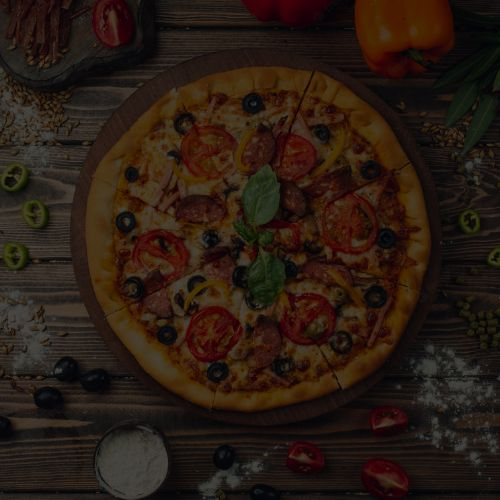
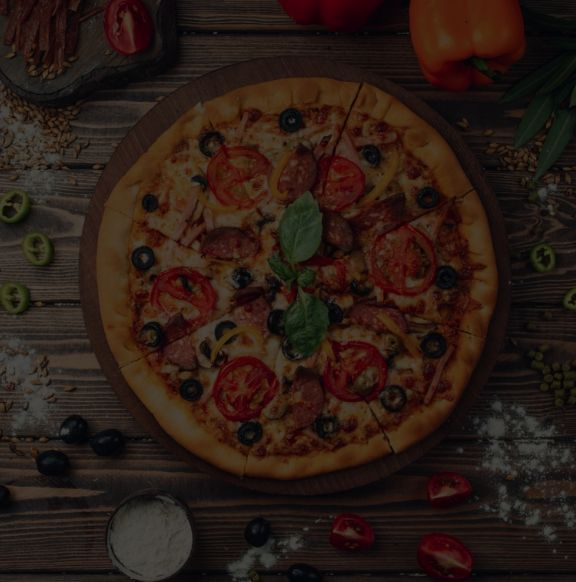
login view e home view

diff --git a/templates/base_login.html b/templates/base_login.html
@@ -10,27 +10,29 @@
     <link href="https://fonts.googleapis.com/css2?family=Kadwa:wght@400;700&display=swap" rel="stylesheet">
     <link rel="stylesheet" href="{% static 'css/fontawesome/css/all.min.css' %}">
     <link rel="shortcut icon" href="{% static 'img/favicon.png' %}">
+    <link rel="stylesheet" href="https://stackpath.bootstrapcdn.com/bootstrap/4.1.3/css/bootstrap.min.css" integrity="sha384-MCw98/SFnGE8fJT3GXwEOngsV7Zt27NXFoaoApmYm81iuXoPkFOJwJ8ERdknLPMO" crossorigin="anonymous">
 </head>
 <body>
-        <div class="auth-banner">
-            <div class="banner-image">
-                <div class="banner-left-content">
+    <div id="content">
+        <div id="teste" class="d-flex flex-row bd-highlight mb-3 justify-content-center">
+            <div id="banner-image">
+                <div id="banner-left-content">
                     {% block banner_left_content %} {% endblock %}
                 </div>
             </div>
-            <div class="banner-right-content">
-                <img src="{% static 'img/logo.png' %}" alt="Logo Pizzaria Fogo na Brasa" width="350px"><br>
-                <div id="content-main">
+            <div id="banner-right-content">
+                <img class="mt-5" src="{% static 'img/logo.png' %}" alt="Logo Pizzaria Fogo na Brasa" width="450px"><br>
+                <div id="content-main" class="text-center mt-5">
                     {% block banner_right_content %} {% endblock %}
                 </div>
             </div>
         </div>
-
-        <footer>
-            <p class="m-t">
-                <small><strong>Copyright</strong> Pizzaria Fogo Brasa &copy; {% now 'Y' %}</small>
-            </p>
-        </footer>
+    </div>
+    <footer>
+        <p class="fixed-bottom d-flex justify-content-center">
+            <small><strong>Copyright</strong> Pizzaria Fogo Brasa &copy; {% now 'Y' %}</small>
+        </p>
+    </footer>
 </body>
 </html>
 
@@ -40,65 +42,65 @@
         font-family: 'Kadwa';
     }
 
-    .auth-banner{
-        display: flex;
-        align-items: center;
-        justify-content: center;
-        margin: 20vh 0;
+    #content{
+        display: block;
+        margin-top: 0em;
+        margin-block-end: 1em;
+        height: 100%;
     }
 
-    .banner-right-content{
+    #teste{
+        top: 50%;
+        left: 50%;
+        transform: translate(-50%, -50%);
+        position: fixed;
+    }
+
+    #banner-right-content{
         background-color: #620000;
         text-align: center;
-        width: 500px;
-        height: 500px;
-        box-shadow: 0px 0px 10px #000000;
+        width: 700px;
+        height: 700px;
     }
 
-    .banner-right-content input{
-        height: 2.5em;
-        width: 22em;
-        margin: 0.625em;
+    #banner-right-content input{
+        height: 3em;
+        width: 30em;
         border: 0.025em solid gray;
         border-radius: 0.25em;
     }
 
-    .banner-right-content button{
+    #banner-right-content button{
         width: 10em;
-        height: 2.5em;
+        height: 3em;
         background-color: #410000;
         color: #FFFFFF;
         border: none;
-        margin: 1em;
         cursor: pointer;
         border-radius: 2px;
         box-shadow: 2px 2px 5px #000000;
         font-weight: 700;
     }
 
-    .banner-right-content img{
-        margin: 2em 0em;
-    }
-
-    .banner-image{
-        width: 500px;
-        height: 500px;
+    #banner-image{
+        width: 700px;
+        height: 700px;
         background-image: url("{% static 'img/pizza_banner.jpg' %}");
+        background-size: cover;
         box-shadow: 0px 0px 10px #000000;
         text-align: center;
-        
     }
 
-    .banner-left-content{
-        padding-top: 180px;
+    #banner-left-content{
+        padding-top: 300px;
     }
 
-    .banner-left-content h1, p{
+    #banner-left-content h1, p{
         color: #FFFFFF;
         margin: 0.350em;
     }
 
-    .banner-left-content button{
+    #banner-left-content button{
         cursor: pointer;
         width: 12em;
         height: 2.5em;
@@ -111,11 +113,4 @@
         font-weight: 700;    
     }
 
-    .password-reset-link{
-        font-size: 14px;
-    }
-
-    footer{
-        text-align: center;
-    }
 </style>

diff --git a/templates/base_home.html b/templates/base_home.html
@@ -1,0 +1,50 @@
+<!DOCTYPE html>
+<html lang="pt-br">
+<head>
+    <meta charset="UTF-8">
+    <meta name="viewport" content="width=device-width, initial-scale=1.0">
+    <title>Pizzaria - Fogo na Brasa</title>
+    <link rel="preconnect" href="https://fonts.googleapis.com">
+    <link rel="preconnect" href="https://fonts.gstatic.com" crossorigin>
+    <link href="https://fonts.googleapis.com/css2?family=Kadwa:wght@400;700&display=swap" rel="stylesheet">
+    <link rel="stylesheet" href="{% static 'css/fontawesome/css/all.min.css' %}">
+    <link rel="shortcut icon" href="{% static 'img/favicon.png' %}">
+    <link rel="stylesheet" href="https://stackpath.bootstrapcdn.com/bootstrap/4.1.3/css/bootstrap.min.css" integrity="sha384-MCw98/SFnGE8fJT3GXwEOngsV7Zt27NXFoaoApmYm81iuXoPkFOJwJ8ERdknLPMO" crossorigin="anonymous">
+</head>
+<body>
+    <header id="navbar">
+        <div class="d-flex justify-content-between">
+            <img src="../static/img/logo_home.png" width="200px" draggable="false">
+        </div>
+        <div class="d-flex flex-row bd-highlight mb-3 border border-bottom-0 border-left-0">
+            <a class="p-2 bd-highlight font-weight-bold border-right">PÁGINA INICIAL</a>
+            <a class="p-2 bd-highlight font-weight-bold border-right">DELIVERY</a>
+            <a class="p-2 bd-highlight font-weight-bold border-right">PEDIDOS</a>
+          </div>
+    </header>
+
+    <main id="home-content" class="d-flex justify-content-center mt-5">
+        <div class="d-flex flex-row justify-content-center bg-light w-50 p3 rounded">
+            <p class="bd-highlight m-2 px-5">COMEÇAR O PEDIDO</p>
+            <button class="bd-highlight m-2 px-5"><i class="fa-sharp fa-solid fa-moped"></i>&nbsp;ENTREGA</button>
+            <p class="bd-highlight m-2 px-5">OU</p>
+            <button class="bd-highlight m-2 px-5"><i class="fa-solid fa-store"></i>&nbsp;RETIRADA</button>
+        </div>    
+    </main>
+</body>
+</html>
+<style>
+    body{
+        background-image: url("../static/img/background_texture.png");
+    }
+
+    #navbar{
+        background-color: #410000;
+        color: #FFFFFF;
+    }
+
+    #navbar a{
+        cursor: pointer;
+    }
+
+</style>

diff --git a/templates/registration/password_reset_form.html b/templates/registration/password_reset_form.html
@@ -8,15 +8,49 @@
 </div>
 {% endblock %} -->
 
-{% block auth_content %}
+{% block banner_left_content %}
+<h1>Seja Bem-Vindo(a)!</h1>
+<p>Informe seus dados para acesso ao sistema</p>  
+<button type="submit" id="btnRegister"><i class="fa-solid fa-square-plus"></i>&nbsp;CADASTRE-SE</button><br>
+{% endblock %}
 
-<p>{% translate 'Forgotten your password? Enter your email address below, and we’ll email instructions for setting a new one.' %}</p>
+{% block banner_right_content %}
+<p class="mb-3">Digite o endereço de e-mail da conta que você não consegue acessar e enviaremos instruções para redefinir sua senha.</p>
 
 <form method="post">{% csrf_token %}
-<fieldset class="">
+<fieldset class="password-reset-email">
         {% crispy form%}
-    <input class="btn btn-primary mb-2 mt-2"  type="submit" value="{% translate 'Reset my password' %}">
+    <input id="btn-email" class="mb-3 mt-4" type="submit" value="Enviar" placeholder="E-mail">
 </fieldset>
 </form>
+
+<style>
+    .password-reset-email{
+        border: none;
+        font-size: 16px;
+        color: white;
+    }
+
+    .password-reset-email label{
+        display: none;
+    }
+
+    #e-mail{
+        background-color: #410000;
+        color: #FFFFFF;
+    }
+
+    #btn-email{
+        width: 10em;
+        height: 3em;
+        background-color: #410000;
+        color: #FFFFFF;
+        border: none !important;
+        cursor: pointer;
+        border-radius: 2px;
+        box-shadow: 2px 2px 5px #000000;
+        font-weight: 700;
+    }
+</style>
 
 {% endblock %}

diff --git a/templates/registration/login.html b/templates/registration/login.html
@@ -3,7 +3,7 @@
 
 {% block banner_left_content %}
 
-<h1>Seja Bem-Vindo!</h1>
+<h1>Seja Bem-Vindo(a)!</h1>
 <p>Informe seus dados para acesso ao sistema</p>   
 <a href="{% url 'register_view' %}">
 <button type="submit" id="btnRegister"><i class="fa-solid fa-square-plus"></i>&nbsp;CADASTRE-SE</button></a><br>
@@ -13,21 +13,22 @@
 {% block banner_right_content %}
 
 <form action="{{ app_path }}" method="post" id="login-form">{% csrf_token %}
-    <div class="form-group">
+    <div class="form-group d-flex justify-content-center mt-4">
         {{ form.username.errors }}
         {{ form.username|attr:"class: form-control"|attr:"placeholder: Usuário" }}
     </div>
-    <div class="form-group">
+    <div class="form-group d-flex justify-content-center mt-4">
         {{ form.password.errors }}
         {{ form.password|attr:"class: form-control"|attr:"placeholder: Senha" }}
         <input type="hidden" name="next" value="{{ next }}">
     </div>
+    {% url 'admin_password_reset' as password_reset_url %}
     {% if password_reset_url %}
         <div class="password-reset-link">
             <a href="{% url 'password_reset_url' %}">{% translate 'Forgotten your password or username?' %}</a>
         </div>
     {% endif %}
-    <div class="submit-row">
+    <div class="submit-row mt-5">
         <button class="btn btn-primary" type="submit"><i class="fa-solid fa-right-to-bracket"></i>&nbsp;Login</button>
     </div>
 </form>

diff --git a/templates/registration/password_reset_done.html b/templates/registration/password_reset_done.html
@@ -1,2 +1,6 @@
 {% extends "registration/base_password_change.html" %}
 {% load i18n %}
+
+{% block banner_left_content %}
+    <h1>Seja Bem-Vindo!</h1>
+{% endblock %}

diff --git a/pizzaria_fogo_brasa/urls.py b/pizzaria_fogo_brasa/urls.py
@@ -25,7 +25,7 @@ urlpatterns = [
     path('register/', RegisterView.as_view(), name='register_view'),
     
     path('admin/', admin.site.urls),
-        path('password_reset/', PasswordResetView.as_view(), name='password_reset_url'),
+        path('password_reset/', PasswordResetView.as_view(), name='admin_password_reset'),
 
     # path('password_change/<str:model>/<int:pk>/', PasswordChangeView.as_view(),
     #      name='admin_password_change'),
